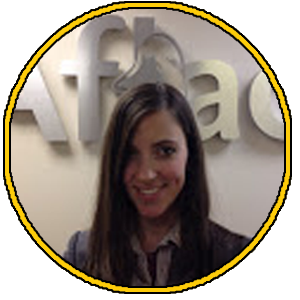
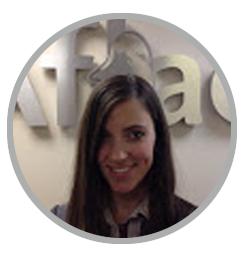
changes t meet the teams

diff --git a/styles.css b/styles.css
@@ -293,8 +293,9 @@ body {
 /* Meet the Teams CSS */
 /* New Carousel and card CSS */
 .team{
-  background-image: url("images/City Hall 4.jpg");
+  background-image: url("images/Metro 2.jpg");
   background-size: 100% 100%;
+  
 }
 .teamslider{
 		width: 850px;
